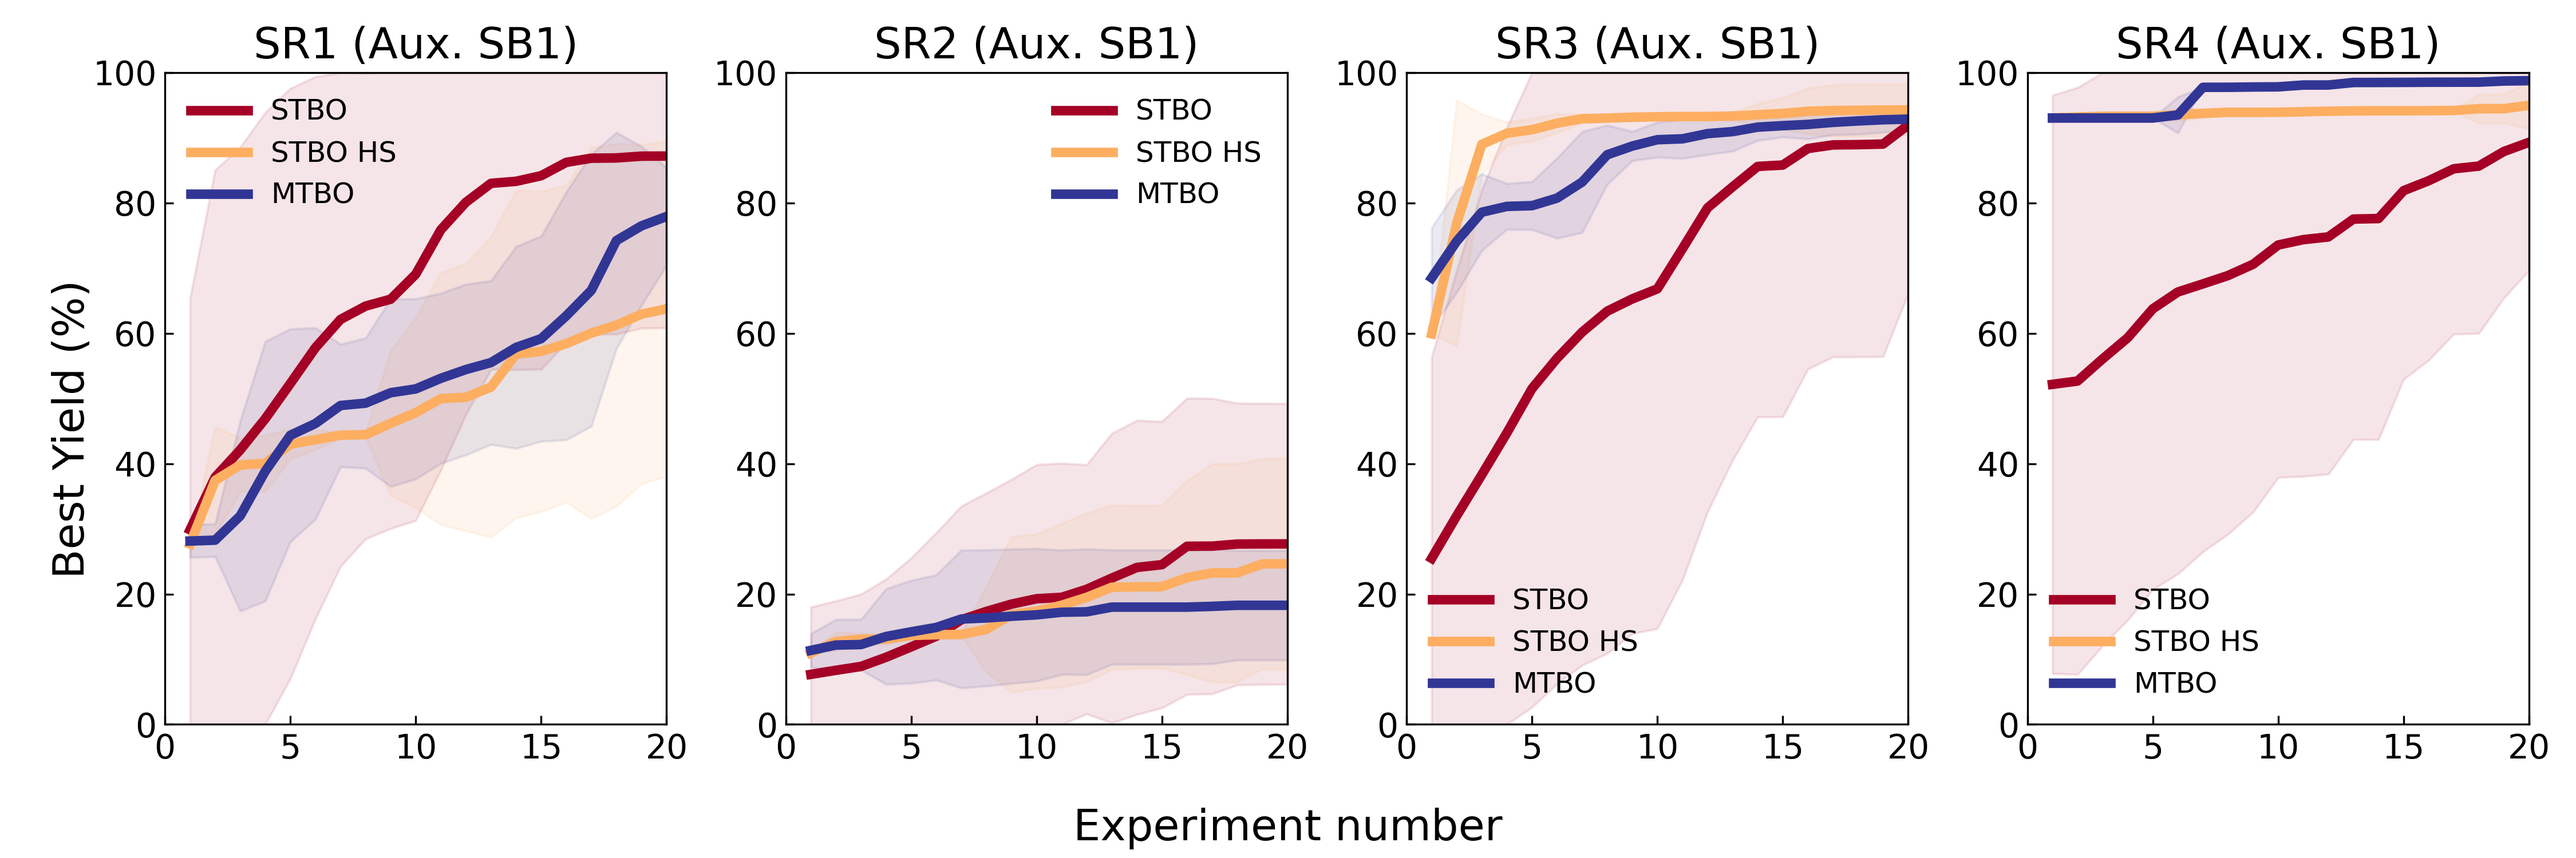
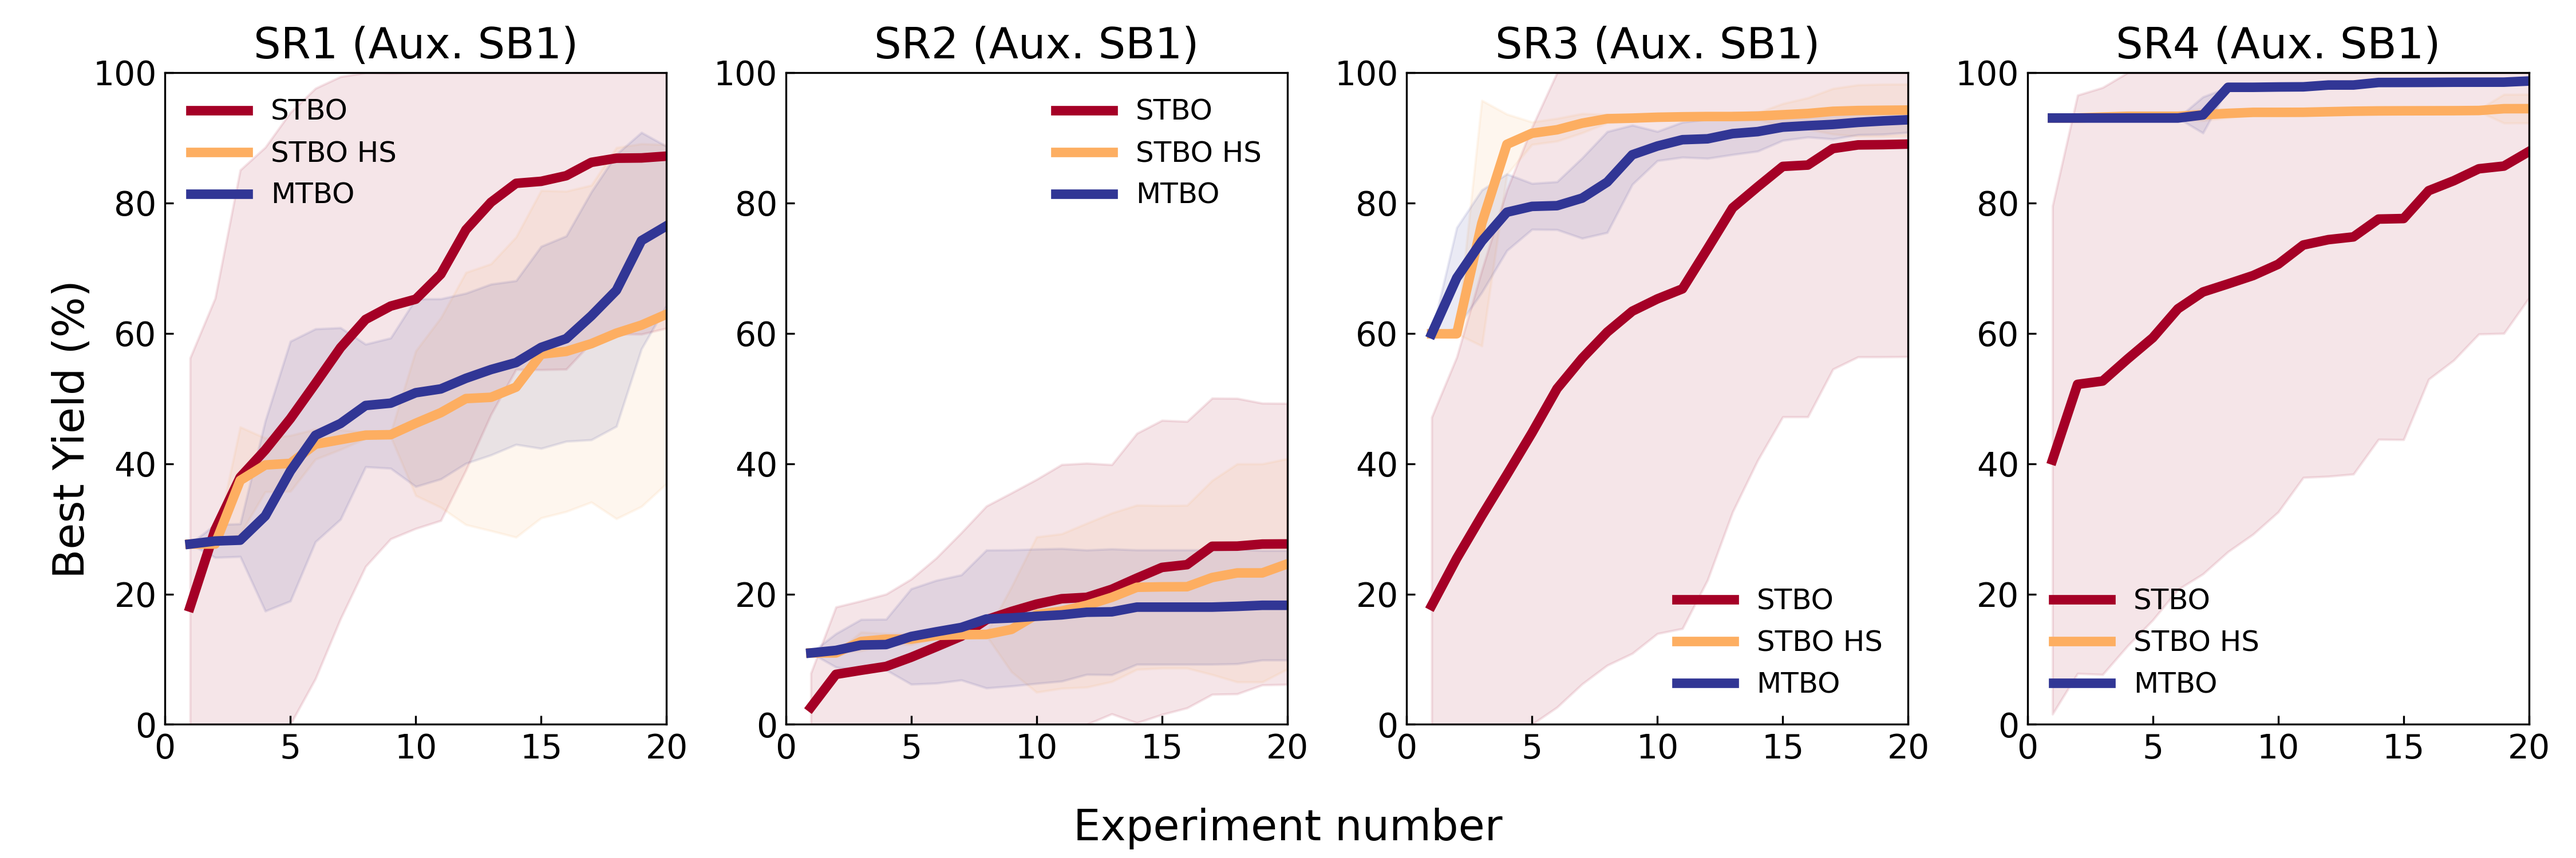
More cotraining

diff --git a/multitask/visualization/suzuki_figures.py b/multitask/visualization/suzuki_figures.py
@@ -837,9 +837,7 @@ def reizman_suzuki_auxiliary_all_baumgartner_suzuki(
             only_finished_runs=only_finished_runs,
             num_iterations=num_iterations,
             extra_filters={
-                "config.ct_dataset_names": [
-                    f"reizman_suzuki_case_{j}" for j in range(1, 5) if j != i
-                ],
+                "config.ct_dataset_names": [f"baumgartner_suzuki"],
             },
         )
         mtbo_dfs = [combine_pre_catalyst_ligand(mtbo_df) for mtbo_df in mtbo_dfs][
@@ -855,11 +853,7 @@ def reizman_suzuki_auxiliary_all_baumgartner_suzuki(
             filter_tags=filter_tags,
             only_finished_runs=only_finished_runs,
             num_iterations=num_iterations,
-            extra_filters={
-                "config.ct_dataset_names": [
-                    f"reizman_suzuki_case_{j}" for j in range(1, 5) if j != i
-                ],
-            },
+            extra_filters={"config.ct_dataset_names": [f"baumgartner_suzuki"]},
         )
         stbo_head_start_dfs = [
             combine_pre_catalyst_ligand(stbo_df) for stbo_df in stbo_head_start_dfs
@@ -937,7 +931,8 @@ def reizman_suzuki_auxiliary_all_baumgartner_suzuki(
     fig_yld.tight_layout()
     figure_dir = Path(figure_dir)
     fig_yld.savefig(
-        figure_dir / "reizman_suzuki_reizman_suzuki_all_cotraining_optimization.png",
+        figure_dir
+        / "reizman_suzuki_baumgartner_suzuki_all_cotraining_optimization.png",
         dpi=300,
     )
 
@@ -949,7 +944,7 @@ def reizman_suzuki_auxiliary_all_baumgartner_suzuki(
     fig_cat_best.tight_layout()
     fig_cat_best.savefig(
         figure_dir
-        / "reizman_suzuki_reizman_suzuki_all_cotraining_optimization_catalyst_best.png",
+        / "reizman_suzuki_baumgartner_suzuki_all_cotraining_optimization_catalyst_best.png",
         dpi=300,
         transparent=True,
         bbox_inches="tight",
@@ -961,7 +956,7 @@ def reizman_suzuki_auxiliary_all_baumgartner_suzuki(
     fig_cat_counts.tight_layout()
     fig_cat_counts.savefig(
         figure_dir
-        / "reizman_suzuki_reizman_suzuki_all_cotraining_optimization_catalyst_counts.png",
+        / "reizman_suzuki_baumgartner_suzuki_all_cotraining_optimization_catalyst_counts.png",
         dpi=300,
         transparent=True,
         bbox_inches="tight",
